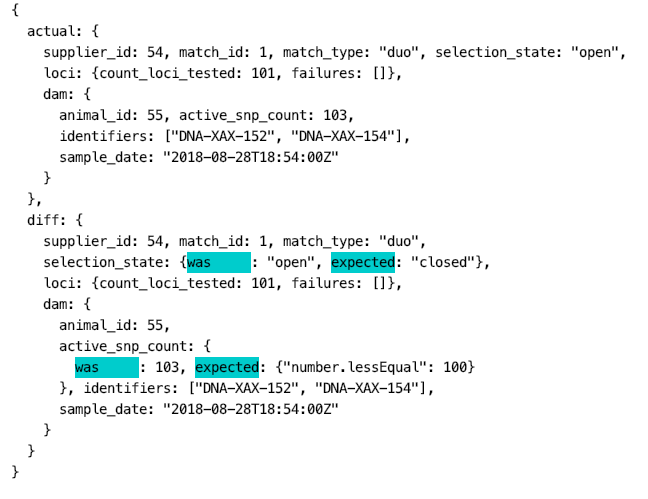
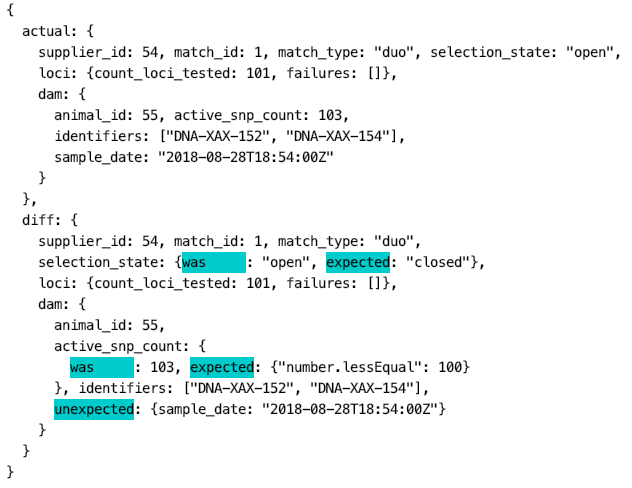
Expand diff tree doc. Change egs to microtests.

diff --git a/src/examples/egMatchObject.micro.ts b/src/examples/egMatchObject.micro.ts
@@ -42,7 +42,7 @@ describe("match.obj:", () => {
                 }));
         });
 
-        // it("Nested with two differences", () => {
+        // it("Nested with various differences", () => {
         //     assertThat({
         //         supplier_id: 54,
         //         match_id: 1,
@@ -68,8 +68,7 @@ describe("match.obj:", () => {
         //             active_snp_count: match.number.lessEqual(100),
         //             identifiers: [
         //                 "DNA-XAX-152", "DNA-XAX-154"
-        //             ],
-        //             sample_date: "2018-08-28T18:54:00Z"
+        //             ]
         //         }
         //     });
         // });

diff --git a/src/MatchResult.ts b/src/MatchResult.ts
@@ -15,7 +15,7 @@ export class MatchResult {
 
     bad(actual: any) {
         PrettyPrinter.make().logToConsole({actual, diff: this.diff});
-        throw new Error("Problem");
+        throw new Error("Mismatched");
     }
 
     static wasExpected(was: any, expected: any, compares, matches) {

diff --git a/DIFFTREE.md b/DIFFTREE.md
@@ -10,7 +10,7 @@ it shows them at the JS token level.
 For example, consider the following test with `mismatched`:
 
 ```
-        it("Nested with two differences", () => {
+        it("Nested with various differences", () => {
             assertThat({
                 supplier_id: 54,
                 match_id: 1,
@@ -36,12 +36,17 @@ For example, consider the following test with `mismatched`:
                     active_snp_count: match.number.lessEqual(100),
                     identifiers: [
                         "DNA-XAX-152", "DNA-XAX-154"
-                    ],
-                    sample_date: "2018-08-28T18:54:00Z"
+                    ]
                 }
             });
         });
 ```
+
+With a careful scan of the `actual` and `expected` values, we can see a few differences:
+
+  - `selection_state` differs
+  - `active_snp_count` is too big
+  - `sample_date` is not expected
 
 The`assertThat()` shows both the actual value and the tree-diff when there is a mismatch:
 
@@ -50,10 +55,8 @@ The`assertThat()` shows both the actual value and the tree-diff when there is a 
 Notice that:
 
  - Each difference is shown as an object with a `was` and `expected` field, where those fields are coloured to draw the eye.
- - Matchers provide sufficient detail clarify what they expected
+ - Matchers provide sufficient detail about what they expected
+ - When there is a field in the `actual` that is not `expected`, this is shown as `unexpected` (eg, `sample_date`)
 
-There are two differences shown in the `diff`:
-
- - the `selection_state` was not "closed", as expected.
- - the `active_snp_count` was 103, which is not the number expected ( <= 100).
+The three differences are shown clearly in the `diff`.
 
